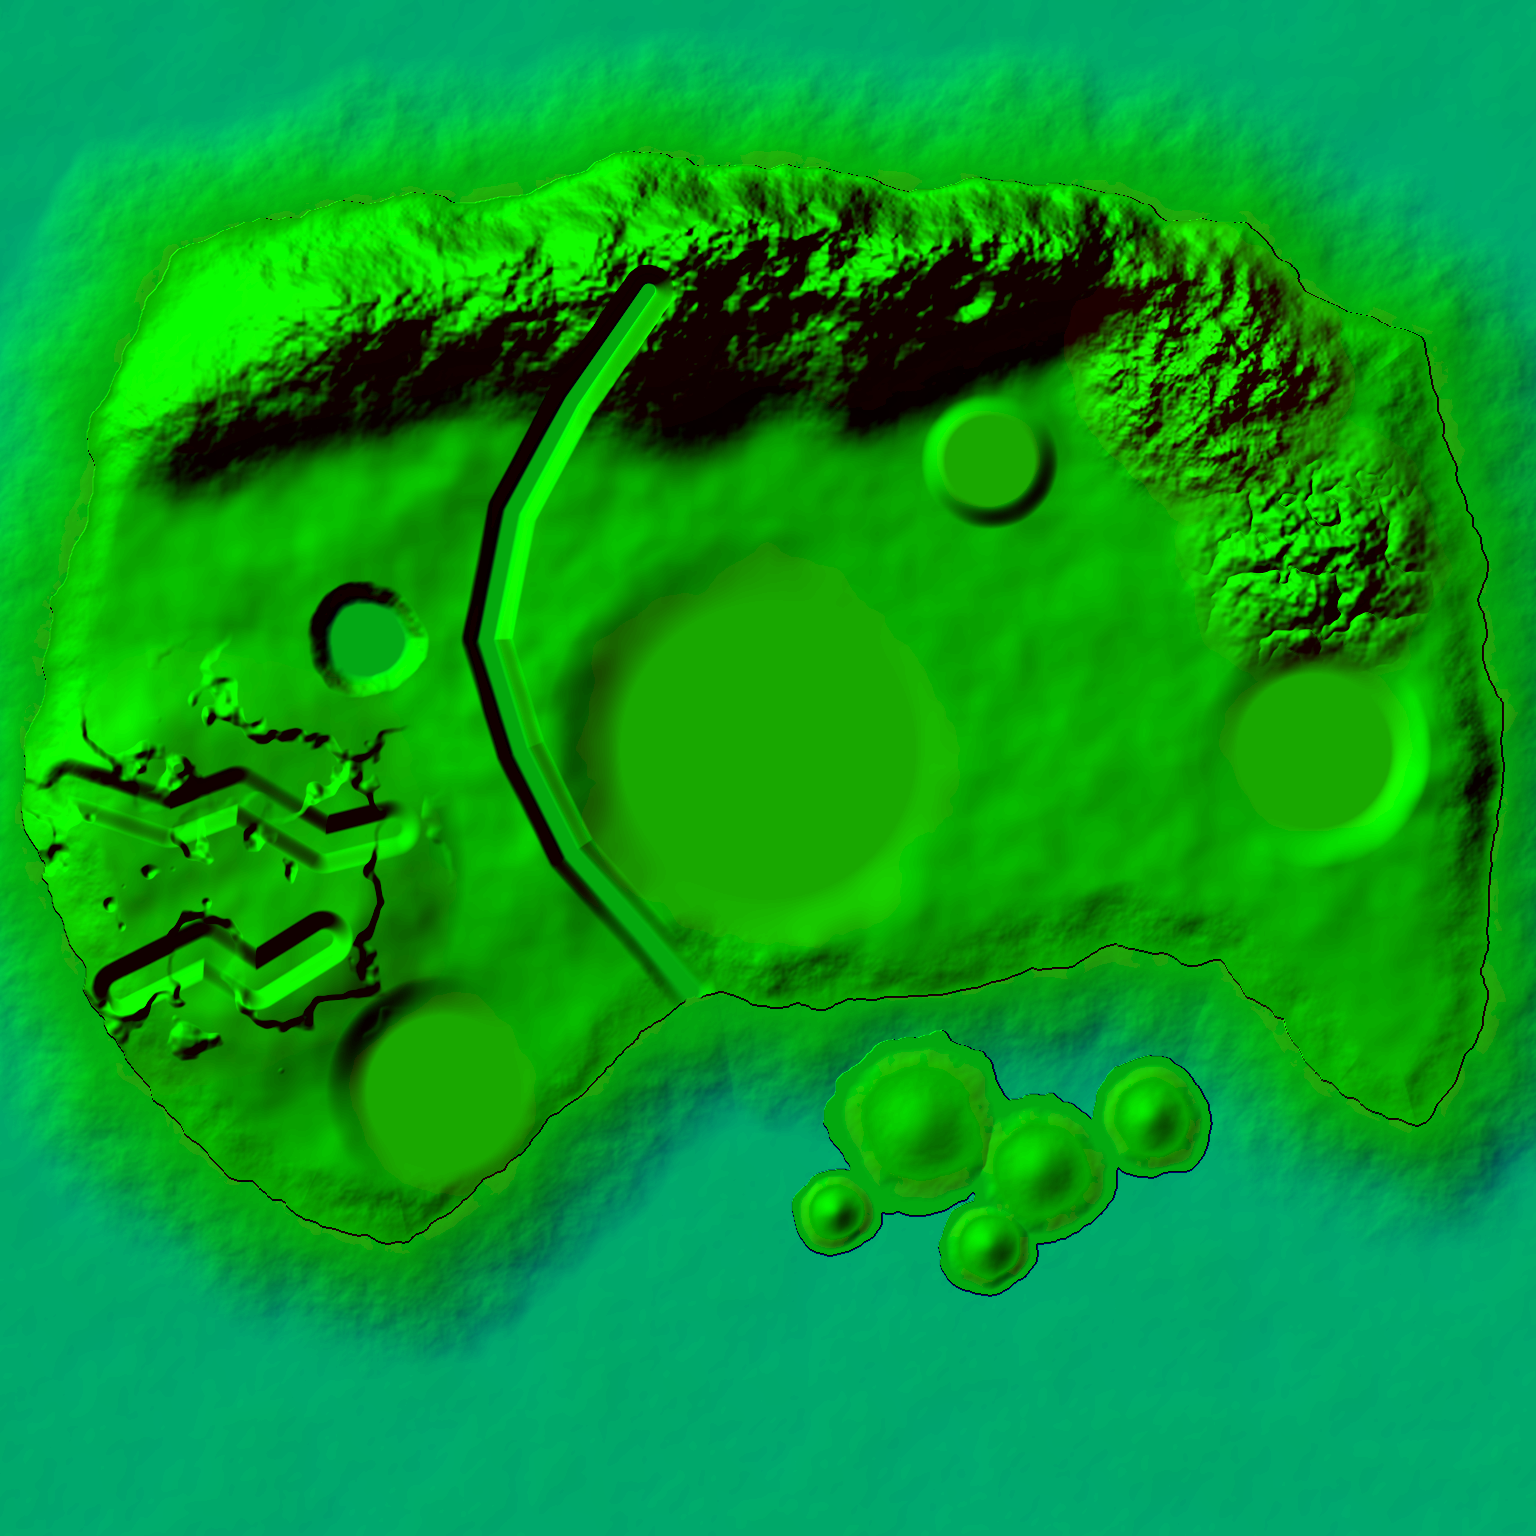
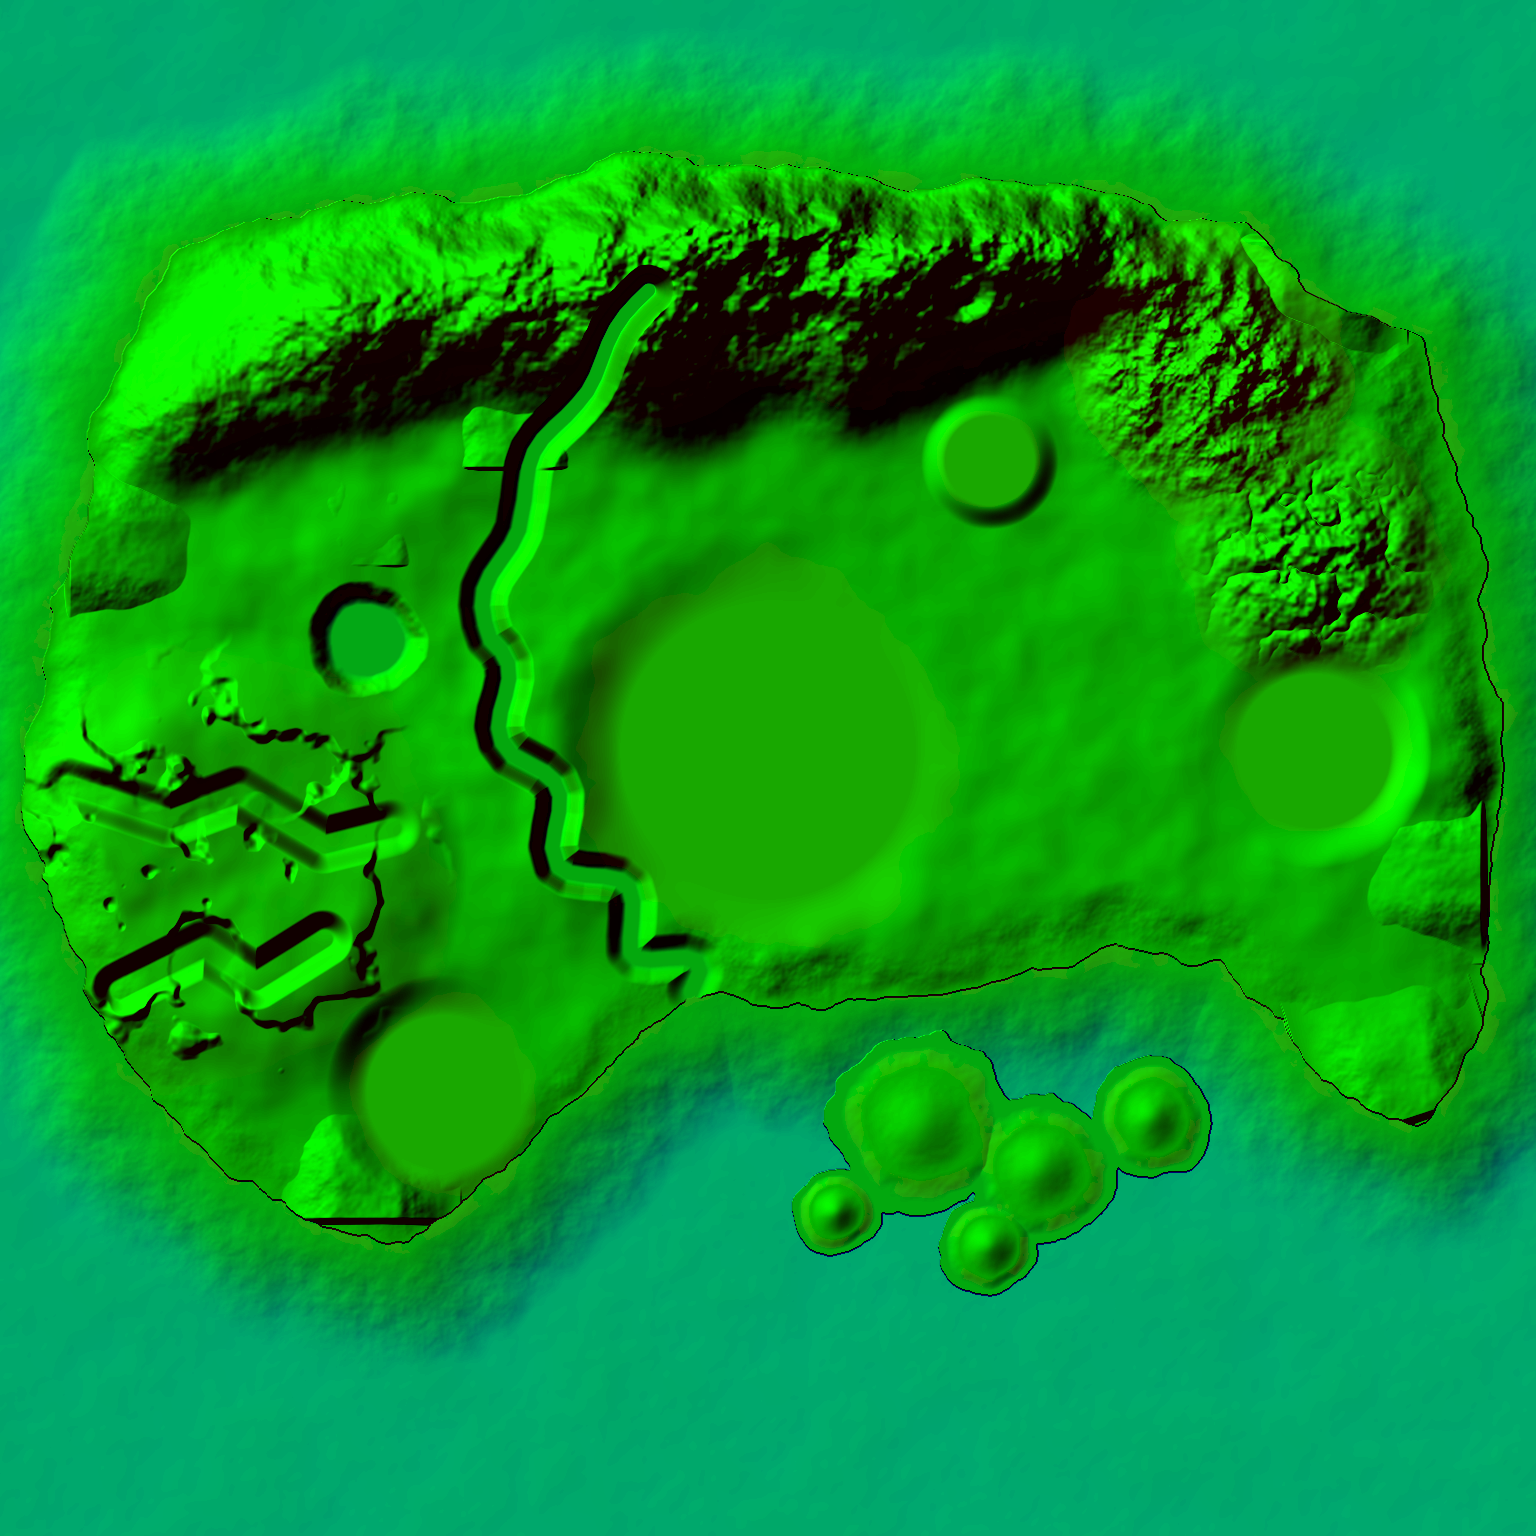
Nexus Region, pass 2: eight of the board's waterfalls (off Aether Ridge into the river and lake, over the sea cliffs at Westcliff, Southreach, Eastcliff, Lighthouse Point and the north coast) on headlands raised for them; the river swung into meanders; Nexus City on a 55 m street grid with the build
Claude-Session: https://claude.ai/code/session_01HeBvGF1Wp7cNYHiTnBkJXG

diff --git a/src/game/nexus-region.ts b/src/game/nexus-region.ts
@@ -66,7 +66,33 @@ const KEYS: readonly { u: number; v: number; r: number }[] = [
   { u: 180, v: 420, r: 70 }, { u: 320, v: 470, r: 58 }, { u: 450, v: 410, r: 46 }, { u: 260, v: 560, r: 40 }, { u: 80, v: 520, r: 34 },
 ];
 /** the river: from the snow under Aether Ridge past Emerald Lake, round the city's west side to the harbour */
-const RIVER: readonly [number, number][] = [[-140, -560], [-230, -430], [-300, -300], [-330, -150], [-290, -20], [-230, 100], [-150, 190], [-90, 262]];
+const RIVER_LINE: readonly [number, number][] = [[-140, -560], [-230, -430], [-300, -300], [-330, -150], [-290, -20], [-230, 100], [-150, 190], [-90, 262]];
+/** the river's course: the line above, densified and swung into meanders (wider in the lowland, tight in the hills) */
+const RIVER: readonly [number, number][] = (() => {
+  const out: [number, number][] = [];
+  for (let i = 1; i < RIVER_LINE.length; i++) {
+    const [ax, az] = RIVER_LINE[i - 1]!, [bx, bz] = RIVER_LINE[i]!, L = Math.hypot(bx - ax, bz - az), nx = -(bz - az) / L, nz = (bx - ax) / L;
+    for (let k = 0; k < 8; k++) {
+      const t = k / 8, g = (i - 1 + t) / (RIVER_LINE.length - 1), amp = 6 + 22 * g;
+      const w = Math.sin((i - 1 + t) * Math.PI * 1.7) * amp;
+      out.push([ax + (bx - ax) * t + nx * w, az + (bz - az) * t + nz * w]);
+    }
+  }
+  out.push(RIVER_LINE[RIVER_LINE.length - 1]!);
+  return out;
+})();
+/** the board's waterfalls: off Aether Ridge into the river and the lake, and over the sea cliffs (local u, v; `to` is the
+ * direction the water falls, `drop` how high the cliff behind it stands). The ground is raised into a cliff at each. */
+export const NR_FALLS: readonly { id: string; name: string; u: number; v: number; to: number; drop: number }[] = [
+  { id: "whisper", name: "Whispering Falls", u: -300, v: -350, to: Math.PI * 0.5, drop: 30 },
+  { id: "ridge", name: "Ridge Falls", u: -150, v: -470, to: Math.PI * 0.65, drop: 34 },
+  { id: "emerald", name: "Emerald Falls", u: -470, v: -235, to: Math.PI * 0.5, drop: 18 },
+  { id: "west", name: "Westcliff Falls", u: -820, v: -260, to: Math.PI, drop: 24 },
+  { id: "south", name: "Southreach Falls", u: -470, v: 530, to: Math.PI * 0.5, drop: 26 },
+  { id: "east", name: "Eastcliff Falls", u: 838, v: 120, to: 0, drop: 24 },
+  { id: "light", name: "Lighthouse Falls", u: 760, v: 410, to: Math.PI * 0.4, drop: 20 },
+  { id: "north", name: "Northcliff Falls", u: 640, v: -620, to: -Math.PI * 0.5, drop: 26 },
+];
 const LAKE = { u: -470, v: -150, r: 60 };   // Emerald Lake
 const CITY = { u: 0, v: -20, r: 230 };       // Nexus City
 const PEAKS: readonly { u: number; v: number; h: number; r: number }[] = [
@@ -125,6 +151,15 @@ export function nrHeight(x: number, z: number): number {
     for (const c of CANYONS) cut = Math.max(cut, 1 - smooth(10, 34, polyDist(c.map(([a, b]) => [a, b] as [number, number]), u, v)));
     h += mesa * (1 - cut * 0.92);
   }
+  // a cliff behind every waterfall: the ground lifted in a lobe uphill of the lip, dropping sharply at it
+  for (const fl of NR_FALLS) {
+    const du = u - fl.u, dv = v - fl.v, back = -(du * Math.cos(fl.to) + dv * Math.sin(fl.to)), side = Math.abs(-du * Math.sin(fl.to) + dv * Math.cos(fl.to));
+    if (back > -6 && back < 200 && side < 110) {
+      // a headland: sheer at the lip, rounding off into the hills behind and to the sides
+      const lift = fl.drop * smooth(-6, 3, back) * (1 - smooth(20 + 25 * fbm(dv * 0.03, du * 0.03, 88), 105, side)) * (1 - smooth(50, 200, back)) * (0.85 + 0.3 * fbm(u * 0.02, v * 0.02, 89));
+      h = Math.max(h, 3 + lift);
+    }
+  }
   // the city, the districts and the base stand on graded ground
   const flat = (cu: number, cv: number, r: number, to: number) => { const t = 1 - smooth(r * 0.75, r * 1.15, Math.hypot(u - cu, v - cv)); h = h + (to - h) * t; };
   flat(CITY.u, CITY.v, CITY.r, 7);
@@ -161,7 +196,7 @@ export function nrCover(x: number, z: number, h: number, slope: number): Cover {
   if (inZone(u, v, SPIRE, 1.1, 84)) return fbm(u * 0.04, v * 0.04, 79) > 0.55 ? "crystal" : "rift";
   if (inZone(u, v, OBSIDIAN, 1.05, 85)) { const dob = Math.hypot(u - OBSIDIAN.u, v - OBSIDIAN.v); return fbm(u * 0.05, v * 0.05, 80) > 0.62 ? "lava" : dob < OBSIDIAN.r * 0.55 ? "basalt" : "ash"; }
   // the Ironcrest Outlands
-  if (inZone(u, v, OUTLANDS, 1.1, 86)) return slope > 0.9 ? "cliff" : fbm(u * 0.03, v * 0.03, 81) > 0.5 ? "sandstone" : "desert";
+  if (inZone(u, v, OUTLANDS, 1.1, 86)) return slope > 0.9 ? "cliff" : fbm(u * 0.03, v * 0.03, 81) > 0.32 ? "sandstone" : "dirt";
   if (h > 95) return "snow";
   if (h > 70) return slope > 0.8 ? "rock" : "snow";
   if (slope > 1.1) return "cliff";
@@ -204,8 +239,14 @@ export function nrFeatures(map: CartoMap): CartoFeatures {
     const [dx, dz] = nr(d.u, d.v);
     let placed = 0;
     for (let tries = 0; placed < d.n && tries < d.n * 30; tries++) {
-      const a = rnd() * Math.PI * 2, rr = Math.sqrt(rnd()) * d.r, u = d.u + Math.cos(a) * rr, v = d.v + Math.sin(a) * rr;
+      const a = rnd() * Math.PI * 2, rr = Math.sqrt(rnd()) * d.r;
+      let u = d.u + Math.cos(a) * rr, v = d.v + Math.sin(a) * rr;
       const hx = d.use === "house" ? 5 + rnd() * 3 : 8 + rnd() * 7, hz = d.use === "house" ? 4 + rnd() * 3 : 7 + rnd() * 6;
+      // inside the ring, buildings stand in the street grid's blocks (55 m, streets 6.4 m wide), clear of the kerbs
+      if (Math.hypot(u - CITY.u, v - CITY.v) < CITY.r * 0.92) {
+        const snap = (w: number, c: number, half: number) => { const b = Math.floor((w - c) / 55) * 55 + c + 27.5, room = Math.max(0, 27.5 - 3.2 - half - 2); return b + Math.max(-room, Math.min(room, w - b)); };
+        u = snap(u, CITY.u, hx); v = snap(v, CITY.v, hz);
+      }
       const [x, z] = nr(u, v);
       if (!dry(u, v, 2.5)) continue;
       if (Math.hypot(x - sx, z - sz) < 40) continue;
@@ -224,6 +265,18 @@ export function nrFeatures(map: CartoMap): CartoFeatures {
   const [stx, stz] = nr(120, 150);
   f.rings.push({ x: stx, z: stz, r: 18, kind: "arena", name: "Nexus Stadium" });
 
+  // the city's street grid: a block every 55 m inside the ring, the avenues' boulevards wider
+  for (let g = -4; g <= 4; g++) {
+    const off = g * 55, half = Math.sqrt(Math.max(0, (CITY.r * 0.92) ** 2 - off * off));
+    if (half < 30) continue;
+    const [px, pz] = nr(CITY.u + off, CITY.v), [qx, qz] = nr(CITY.u, CITY.v + off);
+    f.pavements.push({ x: px, z: pz, hx: 3.2, hz: half, yaw: 0, kind: "street" }, { x: qx, z: qz, hx: half, hz: 3.2, yaw: 0, kind: "street" });
+  }
+  const [cpx, cpz] = nr(CITY.u + 30, CITY.v - 20);
+  f.pavements.push({ x: cpx, z: cpz, hx: 24, hz: 24, yaw: 0, kind: "plaza" });
+  // Nexus Beach's Ferris wheel
+  const [wx, wz] = nr(BEACH.u + 70, BEACH.v - 40);
+  f.buildings.push({ x: wx, z: wz, hx: 6, hz: 3, yaw: 0, use: "entertainment", h: 0.5, m: 40, name: "Nexus Beach Wheel" });
   // the ring road round the city and the avenues out to every district of the region
   const ring: [number, number][] = [];
   for (let i = 0; i <= 24; i++) { const a = (i / 24) * Math.PI * 2; ring.push(nr(CITY.u + Math.cos(a) * 250, CITY.v + Math.sin(a) * 215)); }
@@ -312,7 +365,7 @@ export function nrFeatures(map: CartoMap): CartoFeatures {
   P("westgate", "Westgate", "village", nr(-200, -50), 1, "Residential district on the west bank.");
   P("novahq", "NOVA HQ", "civic", nr(-80, -30), 1, "Operator Command.");
   P("riverside", "Riverside", "village", nr(-150, 90), 1, "Suburbs and housing along the river.");
-  P("tech", "Tech Quarter", "research", nr(170, -90), 1, "R&D and upgrades.");
+  P("tech", "Tech Quarter", "civic", nr(170, -90), 1, "R&D and upgrades.");
   P("arena", "Arena District", "arena", [ax, az], 1, "Tournaments and events at the Nexus Arena.");
   P("stadium", "Nexus Stadium", "arena", [stx, stz], 2, "Sports, tournaments, events.");
   P("ent", "Entertainment District", "entertainment", nr(40, 90), 1, "Nightlife, the casino and the arena.");
@@ -340,7 +393,7 @@ export function nrFeatures(map: CartoMap): CartoFeatures {
   P("verdant", "Verdant Expanse", "park", nr(-470, -300), 0, "The forest zone: Lv 10–35.");
   P("eldergrove", "Eldergrove Ruins", "ruins", nr(-560, -330), 2, "Old stones in the deep wood.");
   P("wilds", "Verdant Wilds", "park", nr(-400, -380), 2, "Untamed forest.");
-  P("falls", "Whispering Falls", "falls", nr(-300, -330), 2, "Falls off the ridge into the river.");
+  for (const fl of NR_FALLS) P(`falls-${fl.id}`, fl.name, "falls", nr(fl.u, fl.v), fl.id === "whisper" ? 1 : 2, "Water off the cliffs.");
   P("lake", "Emerald Lake", "lake", nr(LAKE.u, LAKE.v), 1, "Clear green water under the forest.");
   P("mossveil", "Mossveil Village", "village", nr(-365, -236), 2, "A hamlet on the forest edge.");
   P("ironcrest", "Ironcrest Outlands", "camp", nr(OUTLANDS.u, OUTLANDS.v), 0, "Rugged wilderness: Lv 15–40.");
